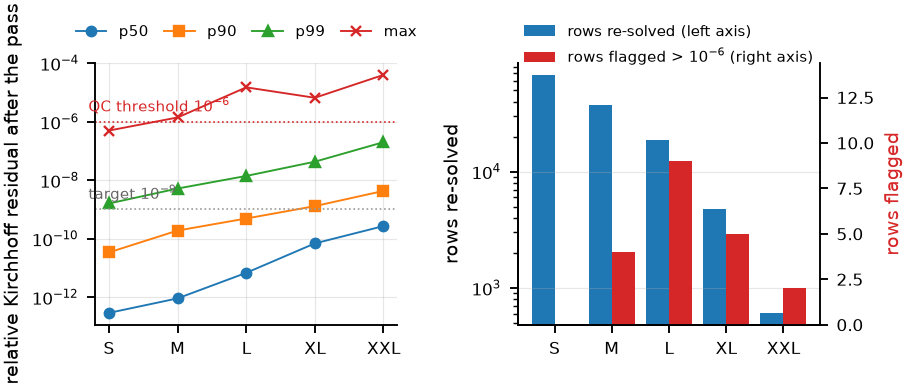
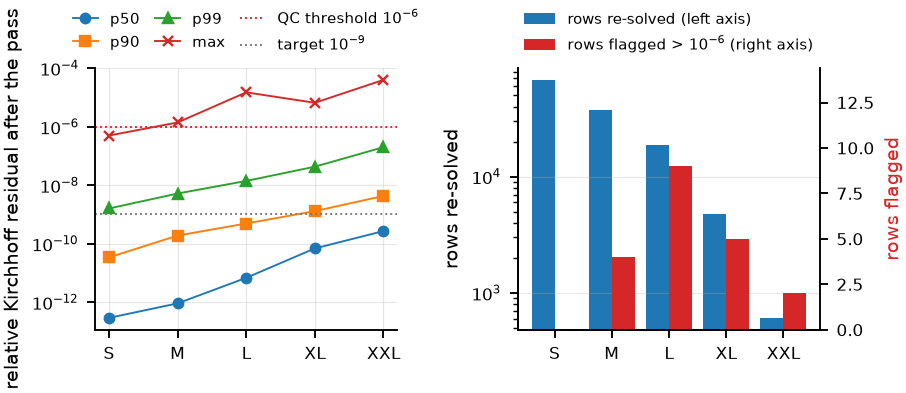
Figure 16: QC-threshold and target labels moved from the plot into the legend (they sat on the data lines); status

diff --git a/scripts/paper_figures.py b/scripts/paper_figures.py
@@ -1271,15 +1271,13 @@ def figA_precision() -> None:
                 q[k].append(v)
         for k, mk in zip(q, ("o", "s", "^", "x"), strict=False):
             ax.plot(x, q[k], marker=mk, ms=4, lw=0.8, label=k)
-        ax.axhline(1e-6, color="#d62728", lw=0.7, ls=":")
-        ax.text(-0.3, 1.6e-6, "QC threshold 10$^{-6}$", fontsize=6.5, color="#d62728", va="bottom")
-        ax.axhline(1e-9, color="#999", lw=0.7, ls=":")
-        ax.text(-0.3, 1.6e-9, "target 10$^{-9}$", fontsize=6.5, color="#666", va="bottom")
+        ax.axhline(1e-6, color="#d62728", lw=0.8, ls=":", label="QC threshold $10^{-6}$")
+        ax.axhline(1e-9, color="#777", lw=0.8, ls=":", label="target $10^{-9}$")
         ax.set_yscale("log")
         ax.set_xticks(x)
         ax.set_xticklabels([r["tier"].strip("*") for r in rows])
         ax.set_ylabel("relative Kirchhoff residual after the pass")
-        ax.legend(frameon=False, fontsize=6.5, ncol=4, loc="upper center", bbox_to_anchor=(0.5, 1.2), columnspacing=1.0)
+        ax.legend(frameon=False, fontsize=6.5, ncol=3, loc="lower center", bbox_to_anchor=(0.5, 1.0), columnspacing=1.0, handlelength=1.6)
         ax.grid(alpha=0.3, which="both", lw=0.5)
         ax = axes[1]
         n = [int(r["rows re-solved"].replace(",", "").replace("*", "")) for r in rows]
@@ -1296,7 +1294,7 @@ def figA_precision() -> None:
         ax2.set_ylim(0, max(f) * 1.6)
         h1, l1 = ax.get_legend_handles_labels()
         h2, l2 = ax2.get_legend_handles_labels()
-        ax.legend(h1 + h2, l1 + l2, frameon=False, fontsize=6.5, ncol=1, loc="upper center", bbox_to_anchor=(0.5, 1.2))
+        ax.legend(h1 + h2, l1 + l2, frameon=False, fontsize=6.5, ncol=1, loc="lower center", bbox_to_anchor=(0.5, 1.0))
         ax.grid(alpha=0.3, axis="y", lw=0.5)
         _save(fig, "figA_precision")
 

diff --git a/docs/status/history.md b/docs/status/history.md
@@ -3280,7 +3280,7 @@ they combined together, it's too small to read")
 - Screenshot paths you pasted are on your Mac; attach them or `scp` to `work/screenshots/` if any bug is still open.
 - Second round after your review: all legends moved outside the axes; Figure 1's "elevation" title and arrows no
   longer touch the panels; Table 11 and the data-scaling figure share one float, so the lone-figure page is gone;
-  float pages are top-aligned. Pages 16 and 18 still hold one wide table each (Tables 8 and 10 are too tall to share a
+  float pages are top-aligned; Figure 16's threshold labels moved from the plot into the legend. Pages 16 and 18 still hold one wide table each (Tables 8 and 10 are too tall to share a
   page with their neighbours); that is the normal LaTeX float page and I suggest leaving it.
 
 ## Operations

diff --git a/docs/status/latest.md b/docs/status/latest.md
@@ -29,7 +29,7 @@ they combined together, it's too small to read")
 - Screenshot paths you pasted are on your Mac; attach them or `scp` to `work/screenshots/` if any bug is still open.
 - Second round after your review: all legends moved outside the axes; Figure 1's "elevation" title and arrows no
   longer touch the panels; Table 11 and the data-scaling figure share one float, so the lone-figure page is gone;
-  float pages are top-aligned. Pages 16 and 18 still hold one wide table each (Tables 8 and 10 are too tall to share a
+  float pages are top-aligned; Figure 16's threshold labels moved from the plot into the legend. Pages 16 and 18 still hold one wide table each (Tables 8 and 10 are too tall to share a
   page with their neighbours); that is the normal LaTeX float page and I suggest leaving it.
 
 ## Operations

diff --git a/docs/paper_tex_changes.md b/docs/paper_tex_changes.md
@@ -82,6 +82,7 @@ the following was fixed:
   realm chart) so no legend covers data; Figure 1's covariate stack has room for the "elevation" title and the arrows
   start and end clear of the panels; Table 11 and the data-scaling figure share one float (`capt-of`), so Appendix B no
   longer has a page with one small figure; appendix float pages are top-aligned (`\@fptop = 0pt`) instead of centred.
+- Figure 16 (precision pass): the "QC threshold" and "target" labels sat on the data lines; both are legend entries now.
 
 ## Open points for the owner
 - The main text is at the nine-page limit with no slack; any addition needs an equal cut.
